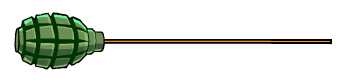
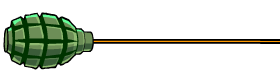
всё движение в одном цикле

Changed region(s): [[0.0, 0.1446, 0.3429, 0.8434], [0.7714, 0.4578, 1.0, 0.5301]]

diff --git a/front/src/Field.jsx b/front/src/Field.jsx
@@ -262,7 +262,7 @@ function Field() {
             /**
              * Ставим летящую стрелу
              * */
-            arrows_fly_ref.current.style.left = (marker_right_bottom_x * 0.66 - 460) + 'px';
+            arrows_fly_ref.current.style.left = (marker_right_bottom_x * 0.66 - 310) + 'px';
             arrows_fly_ref.current.style.top = (marker_right_bottom_y - 375) + 'px';
         }
     }
@@ -433,77 +433,40 @@ function Field() {
          * */
         let x_arrows_fly_0 = arrows_fly_ref.current.offsetLeft;
         let y_arrows_fly_0 = arrows_fly_ref.current.offsetTop;
-        const compensation_x = 430 / 90 * alfa;
-        const compensation_y = 200 / 90 * alfa;
+        const compensation_x = 280 / 90 * alfa;
+        const compensation_y = 110 / 90 * alfa;
         arrows_fly_ref.current.style.transformOrigin = 173 + 'px ' + 42 + 'px';
         arrows_fly_ref.current.style.left = x_arrows_fly_0 + compensation_x + 'px';
         arrows_fly_ref.current.style.top = y_arrows_fly_0 - compensation_y + 'px';
-
-        const min_y_forest = (-1) * (forest_vertical - position.marker_right_bottom.y);
         /**
-         * Полет стрелы разбивается на два цикла. В первом цикле стрела стоит на месте,
-         * меняя только угол наклона, двигается только фон. После того, как фон упрется
-         * в одну из своих границ - первый цикл заканчивается. Во втором цикле фон стоит
-         * на месте, а движется уже - стрела, которая завершает свой полет.
+         * Т.к. в CSS фон уходит на 140 под нижнюю границу, то
+         * в калькуляции min_y_forest учитываем 140. И соответственно в проверке
+         * цикла заходим вниз не более чем на 130, иначе вылезет белое пятно.
          * */
-        while (y_forest_0 + delta_y >= min_y_forest && x_forest_0 + delta_x <= 0) {
+        const min_y_forest = (-1) * ((forest_vertical - 140) - position.marker_right_bottom.y);
+        while (y_forest_0 + delta_y >= min_y_forest - 130) {
             t += time_step_ms / 100;
             delta_x = V_0_x * t;
             delta_y = V_0_y * t - g * t * t / 2;
             /**
-             * В последней итерации цикла - движение вниз заходит под нижнюю границу. Чтобы избежать этого
-             * ставим дополнительное условие в теле цикла.
+             * Меняем угол наклона стрелы
              * */
-            if (y_forest_0 + delta_y >= min_y_forest) {
-                /**
-                 * Меняем угол наклона стрелы
-                 * */
-                let beta = (180 / Math.PI) * Math.atan((V_0_y - g * t) / V_0_x);
-                arrows_fly_ref.current.style.transform = 'rotate(' + beta + 'deg)';
-                /**
-                 * Меняем координаты фонов и персонажа
-                 * */
-                forest_ref.current.style.left = (x_forest_0 + delta_x) + 'px';
-                forest_ref.current.style.top = (y_forest_0 + delta_y) + 'px';
-                legs_ref.current.style.left = (x_legs_0 + delta_x) + 'px';
-                legs_ref.current.style.top = (y_legs_0 + delta_y) + 'px';
-                legs_folded_1_ref.current.style.left = (x_legs_folded_1_0 + delta_x) + 'px';
-                legs_folded_1_ref.current.style.top = (y_legs_folded_1_0 + delta_y) + 'px';
-                torso_ref.current.style.left = (x_torso_0 + delta_x) + 'px';
-                /**
-                 * По неизвестным причинам пдчеркивает как дубликат. Чтобы этого не происходило в конце добавил пустую строку
-                 * */
-                torso_ref.current.style.top = (y_torso_0 + delta_y) + 'px' + '';
-                let promise = new Promise((resolve, reject) => {
-                    setTimeout(() => {
-                        resolve("готово");
-                    }, time_step_ms)
-                });
-                let result = await promise;
-            }
-        }
-        let x_curr;
-        let x_prev;
-        let y_curr;
-        let y_prev;
-        while (arrows_fly_ref.current.offsetTop < position.marker_right_bottom.y) {
-            x_prev = V_0_x * t;
-            y_prev = V_0_y * t - g * t * t / 2;
-            t += time_step_ms / 100;
-            x_curr = V_0_x * t;
-            y_curr = V_0_y * t - g * t * t / 2;
-
             let beta = (180 / Math.PI) * Math.atan((V_0_y - g * t) / V_0_x);
             arrows_fly_ref.current.style.transform = 'rotate(' + beta + 'deg)';
-            arrows_fly_ref.current.style.left = (arrows_fly_ref.current.offsetLeft - (x_curr - x_prev)) + 'px';
-            arrows_fly_ref.current.style.top = (arrows_fly_ref.current.offsetTop - (y_curr - y_prev)) + 'px';
             /**
-             * Наконечник стрелы не должен опуститься ниже линии, на которой стоят ноги. Не забываем поменять
-             * знак угла бета.
+             * Меняем координаты фонов и персонажа
              * */
-            if (arrows_fly_ref.current.offsetTop > position.marker_right_bottom.y - (173 * Math.sin(Math.PI / 180 * -beta) + 140)) {
-                return 'движение закончилось';
-            }
+            forest_ref.current.style.left = (x_forest_0 + delta_x) + 'px';
+            forest_ref.current.style.top = (y_forest_0 + delta_y) + 'px';
+            legs_ref.current.style.left = (x_legs_0 + delta_x) + 'px';
+            legs_ref.current.style.top = (y_legs_0 + delta_y) + 'px';
+            legs_folded_1_ref.current.style.left = (x_legs_folded_1_0 + delta_x) + 'px';
+            legs_folded_1_ref.current.style.top = (y_legs_folded_1_0 + delta_y) + 'px';
+            torso_ref.current.style.left = (x_torso_0 + delta_x) + 'px';
+            /**
+             * По неизвестным причинам пдчеркивает как дубликат. Чтобы этого не происходило в конце добавил пустую строку
+             * */
+            torso_ref.current.style.top = (y_torso_0 + delta_y) + 'px' + '';
             let promise = new Promise((resolve, reject) => {
                 setTimeout(() => {
                     resolve("готово");

diff --git a/front/src/styles.css b/front/src/styles.css
@@ -97,7 +97,7 @@
 
 .forest {
     position: absolute;
-    bottom: 0;
+    bottom: -140px;
     right: 0;
     height: 1000px;
     width: 5500px;
@@ -155,14 +155,14 @@
     transform-origin: 360px 330px;
 }
 
-.arrows_fly{
+.arrows_fly {
     /*border: solid #2d2d2d;*/
     pointer-events: none;
     position: absolute;
     display: block;
     height: 83px;
-    width: 346px;
-    transform-origin: 510px 140px;
+    width: 280px;
+    transform-origin: 360px 140px;
 }
 
 .you_control {
